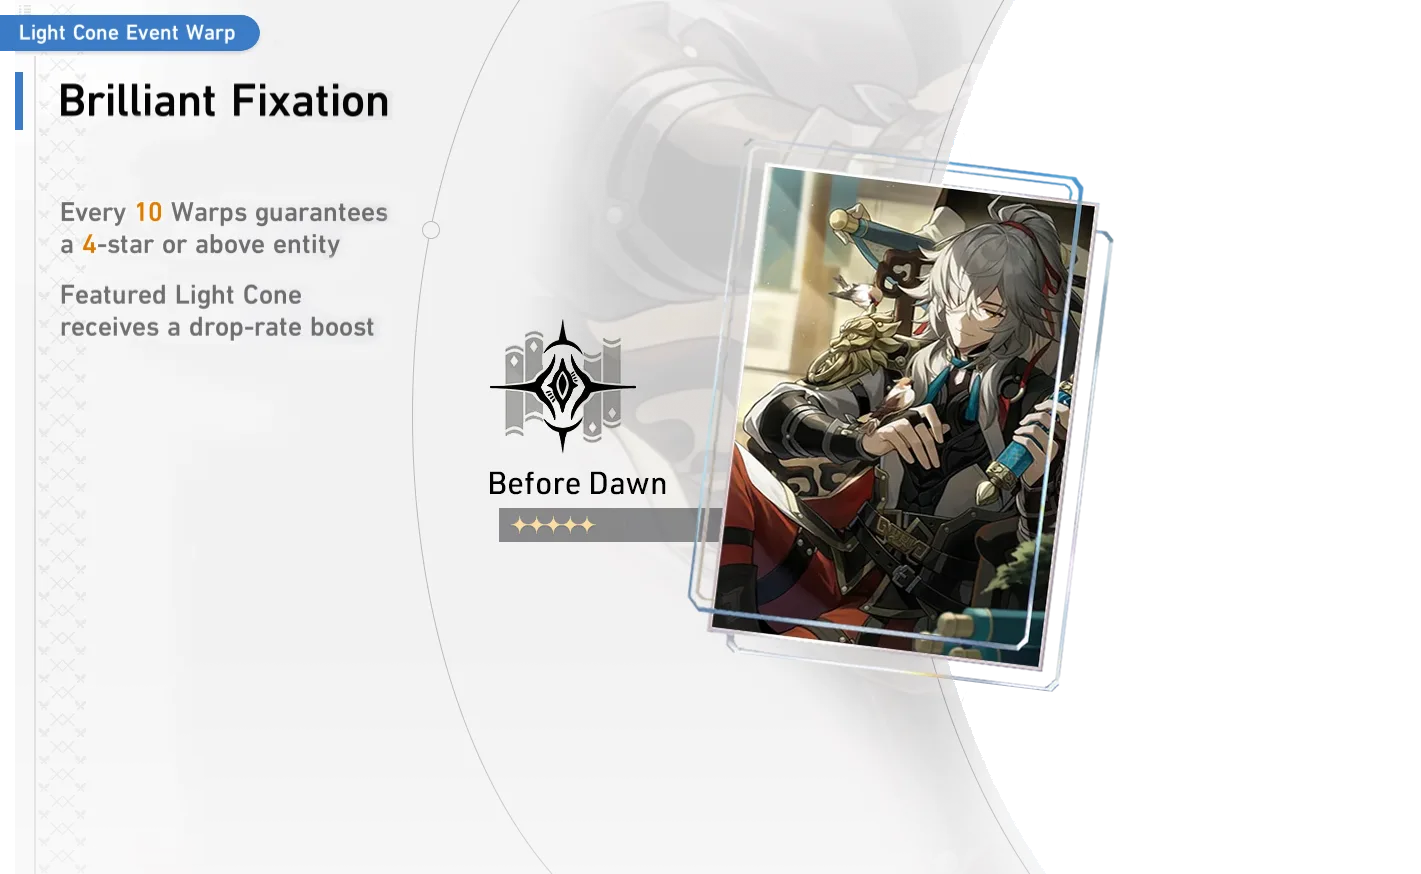
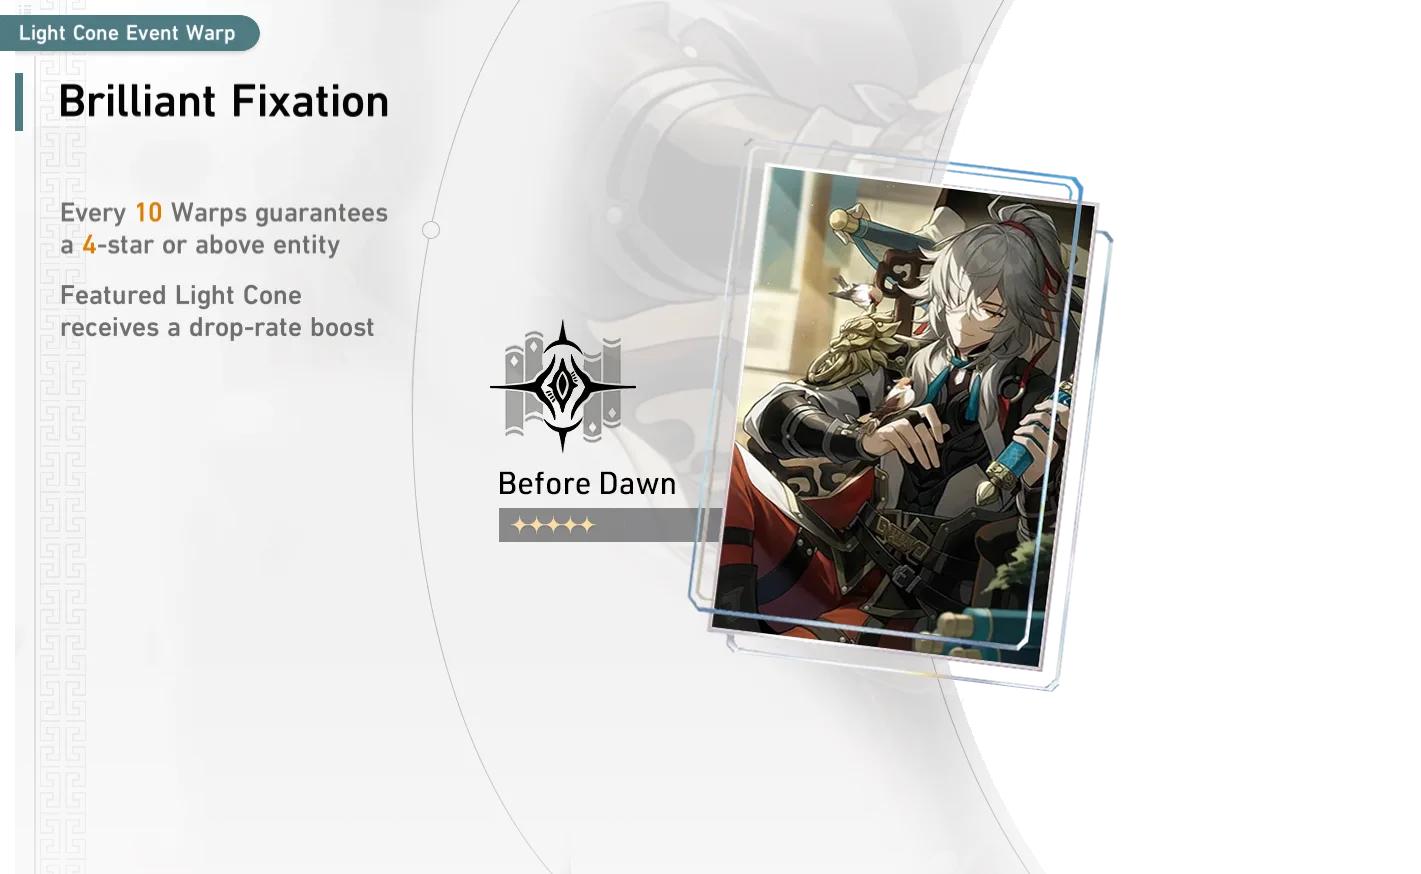
Updated for Jing Yuan release

diff --git a/src/components/MiniBanners.js b/src/components/MiniBanners.js
@@ -68,7 +68,7 @@ const MiniBanners = ({ vers, bannerType, setBannerType, hasBeginner }) => {
         src={`../assets/banner/mini/${vers}/char-active.webp`}
         width={getWidth(180)}
         style={{
-          transform: hasBeginner ? `translateY(190%)` : `translateY(100%)`,
+          transform: hasBeginner ? `translateY(155%)` : `translateY(80%)`,
           opacity: `${bannerType === "char" ? 1 : 0}`,
           pointerEvents: "none",
         }}
@@ -81,7 +81,7 @@ const MiniBanners = ({ vers, bannerType, setBannerType, hasBeginner }) => {
         src={`../assets/banner/mini/${vers}/char.webp`}
         width={getWidth(160)}
         style={{
-          transform: hasBeginner ? `translateY(320%)` : "translateY(180%)",
+          transform: hasBeginner ? `translateY(320%)` : "translateY(190%)",
           opacity: `${bannerType === "char" ? 0 : 1}`,
         }}
         onClick={() => {
@@ -110,7 +110,7 @@ const MiniBanners = ({ vers, bannerType, setBannerType, hasBeginner }) => {
         src={`../assets/banner/mini/${vers}/weap-active.webp`}
         width={getWidth(180)}
         style={{
-          transform: hasBeginner ? `translateY(310%)` : "translateY(200%)",
+          transform: hasBeginner ? `translateY(310%)` : "translateY(210%)",
           opacity: `${bannerType === "weap" ? 1 : 0}`,
           pointerEvents: "none",
         }}
@@ -123,7 +123,7 @@ const MiniBanners = ({ vers, bannerType, setBannerType, hasBeginner }) => {
         src={`../assets/banner/mini/${vers}/weap.webp`}
         width={getWidth(160)}
         style={{
-          transform: hasBeginner ? `translateY(470%)` : "translateY(320%)",
+          transform: hasBeginner ? `translateY(470%)` : "translateY(330%)",
           opacity: `${bannerType === "weap" ? 0 : 1}`,
         }}
         onClick={() => {
@@ -164,7 +164,7 @@ const MiniBanners = ({ vers, bannerType, setBannerType, hasBeginner }) => {
         src={`../assets/banner/mini/standard.webp`}
         width={getWidth(160)}
         style={{
-          transform: hasBeginner ? `translateY(620%)` : "translateY(460%)",
+          transform: hasBeginner ? `translateY(620%)` : "translateY(475%)",
           opacity: `${bannerType === "standard" ? 0 : 1}`,
         }}
         onClick={() => {
@@ -193,7 +193,7 @@ const MiniBanners = ({ vers, bannerType, setBannerType, hasBeginner }) => {
         alt="highlight"
         width={getWidth(160)}
         style={{
-          transform: hasBeginner ? "translateY(172%)" : "translateY(170%)",
+          transform: hasBeginner ? "translateY(172%)" : "translateY(180%)",
           opacity: hasBeginner
             ? `${highlightIndex === 0 && bannerType !== "beginner" ? 1 : 0}`
             : `${highlightIndex === 0 && bannerType !== "char" ? 1 : 0}`,
@@ -219,7 +219,7 @@ const MiniBanners = ({ vers, bannerType, setBannerType, hasBeginner }) => {
         alt="highlight"
         width={getWidth(160)}
         style={{
-          transform: hasBeginner ? "translateY(450%)" : "translateY(440%)",
+          transform: hasBeginner ? "translateY(450%)" : "translateY(455%)",
           opacity: hasBeginner
             ? `${highlightIndex === 2 && bannerType !== "weap" ? 1 : 0}`
             : `${highlightIndex === 2 && bannerType !== "standard" ? 1 : 0}`,

diff --git a/src/components/VersionModal.js b/src/components/VersionModal.js
@@ -12,7 +12,6 @@ export default function VersionModal({ show, setShow, currentVers, setVers }) {
   const handleClose = () => {
     if (sound) playModalClose();
     setShow(false);
-    setSelected(currentVers);
   };
 
   const [playModalClose] = useSound("../assets/audio/sfx/banner-close.mp3");
@@ -23,13 +22,22 @@ export default function VersionModal({ show, setShow, currentVers, setVers }) {
 
   return (
     <React.Fragment>
-      <Modal show={show} onHide={handleClose}>
+      <Modal
+        show={show}
+        onHide={() => {
+          handleClose();
+          setSelected(currentVers);
+        }}
+      >
         <Modal.Header style={{ backgroundColor: "#e9e7e2" }}>
           <Modal.Title style={{ fontWeight: "bold" }}>
             Choose Your Banner Version
           </Modal.Title>
           <CloseButton
-            onClose={handleClose}
+            onClose={() => {
+              handleClose();
+              setSelected(currentVers);
+            }}
             variant="dark"
             style={{ transform: "translate(-10%, -10%)" }}
             resize={false}
@@ -54,6 +62,7 @@ export default function VersionModal({ show, setShow, currentVers, setVers }) {
                 playCancel();
               }
               handleClose();
+              setSelected(currentVers);
             }}
             text="Cancel"
             size="sm"

diff --git a/src/banners/SwirlOfHeavenlySpear.js b/src/banners/SwirlOfHeavenlySpear.js
@@ -24,8 +24,9 @@ const SwirlOfHeavenlySpear = () => {
         style={{
           width: getWidth(764),
           height: getHeight(677.33, 1100),
+          // overflow: "hidden",
           background:
-            "linear-gradient(to bottom, rgba(16, 20, 56, 1) 70%, rgba(255, 255, 255, 0) 100%)",
+            "linear-gradient(to bottom, rgba(40, 33, 36, 1) 70%, rgba(255, 255, 255, 0) 100%)",
           position: "absolute",
           boxShadow: "0 0 10px rgba(8, 8, 8, 0.521)",
           top: "50%",
@@ -155,7 +156,7 @@ const SwirlOfHeavenlySpear = () => {
       <LazyLoadImage
         effect="opacity"
         src="../assets/banner/1.1/jing-yuan.webp"
-        width={getWidth(1145)}
+        width={getWidth(1500)}
         alt="char"
         draggable="false"
         style={{
@@ -167,7 +168,7 @@ const SwirlOfHeavenlySpear = () => {
           animationFillMode: "both",
         }}
       />
-      <LazyLoadImage
+      {/* <LazyLoadImage
         effect="opacity"
         src="../assets/magnify.webp"
         width={getWidth(40)}
@@ -180,7 +181,7 @@ const SwirlOfHeavenlySpear = () => {
           transform: "translate(-430%, 120%)",
           filter: "brightness(0.4)",
         }}
-      />
+      /> */}
       <LazyLoadImage
         effect="opacity"
         src="../assets/banner/1.1/jing-yuan-tag.webp"

diff --git a/src/banners/BrilliantFixationJY.js b/src/banners/BrilliantFixationJY.js
@@ -13,7 +13,7 @@ const BrilliantFixationJY = () => {
           width: getWidth(764),
           height: getHeight(677.33, 1100),
           background:
-            "linear-gradient(to bottom, rgba(16, 20, 56, 1) 70%, rgba(255, 255, 255, 0) 100%)",
+            "linear-gradient(to bottom, rgba(164, 164, 128, 1) 70%, rgba(255, 255, 255, 0) 100%)",
           position: "absolute",
           overflow: "hidden",
           boxShadow: "0 0 10px rgba(8, 8, 8, 0.521)",
@@ -112,7 +112,7 @@ const BrilliantFixationJY = () => {
           )}deg)`,
         }}
       />
-      <LazyLoadImage
+      {/* <LazyLoadImage
         effect="opacity"
         src="../assets/magnify.webp"
         width={getWidth(40)}
@@ -126,7 +126,7 @@ const BrilliantFixationJY = () => {
           transform: "translate(-540%, 40%)",
           filter: "brightness(0.4)",
         }}
-      />
+      /> */}
     </React.Fragment>
   );
 };

diff --git a/src/css/vers/1.1.css b/src/css/vers/1.1.css
@@ -30,25 +30,25 @@
 
 @keyframes jing-yuan-animation {
   0% {
-    transform: translate(-48%, -40%);
+    transform: translate(-46%, -50%);
   }
   100% {
-    transform: translate(-40.8%, -40%);
+    transform: translate(-38.8%, -50%);
   }
 }
 
 @keyframes jing-yuan-back-animation {
   0% {
-    transform: translate(-40.5%, -21.1%);
+    transform: translate(-32%, -27.4%);
   }
   100% {
-    transform: translate(-29.5%, -21.1%);
+    transform: translate(-24.88%, -27.4%);
   }
 }
 
 @keyframes jing-yuan-weap-back-animation {
   0% {
-    transform: translate(15%, -7%);
+    transform: translate(30%, -15%);
   }
   100% {
     transform: translate(20%, -12%);

diff --git a/src/banners/ButterflyOnSwordtip.js b/src/banners/ButterflyOnSwordtip.js
@@ -170,7 +170,7 @@ const ButterflyOnSwordtip = () => {
           animationFillMode: "both",
         }}
       />
-      <LazyLoadImage
+      {/* <LazyLoadImage
         effect="opacity"
         src="../assets/magnify.webp"
         width={getWidth(40)}
@@ -183,7 +183,7 @@ const ButterflyOnSwordtip = () => {
           transform: "translate(-430%, 120%)",
           filter: "brightness(0.4)",
         }}
-      />
+      /> */}
       <LazyLoadImage
         effect="opacity"
         src="../assets/banner/1.0/seele-tag.webp"

diff --git a/src/banners/BrilliantFixationS.js b/src/banners/BrilliantFixationS.js
@@ -112,7 +112,7 @@ const BrilliantFixationS = () => {
           )}deg)`,
         }}
       />
-      <LazyLoadImage
+      {/* <LazyLoadImage
         effect="opacity"
         src="../assets/magnify.webp"
         width={getWidth(40)}
@@ -126,7 +126,7 @@ const BrilliantFixationS = () => {
           transform: "translate(-540%, 40%)",
           filter: "brightness(0.4)",
         }}
-      />
+      /> */}
     </React.Fragment>
   );
 };

diff --git a/src/components/Main.js b/src/components/Main.js
@@ -27,7 +27,7 @@ export default function Main({
 }) {
   const { getWidth, getHeight } = useContext(ResizeContext);
 
-  const [vers, setVers] = useState(sessionStorage.getItem("vers") || "1.0");
+  const [vers, setVers] = useState(sessionStorage.getItem("vers") || "1.1");
 
   const [totalBeginner, setTotalBeginner] = useState(
     parseInt(localStorage.getItem("totalBeginner")) || 0

diff --git a/src/css/App.css b/src/css/App.css
@@ -364,7 +364,7 @@ html * {
   justify-content: space-between;
   align-items: center;
   transition: background-color 0.2s;
-  height: 112px;
+  height: 130px;
 }
 
 .vers-info * {
